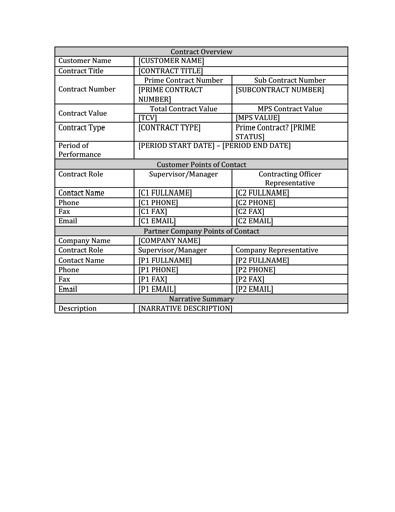
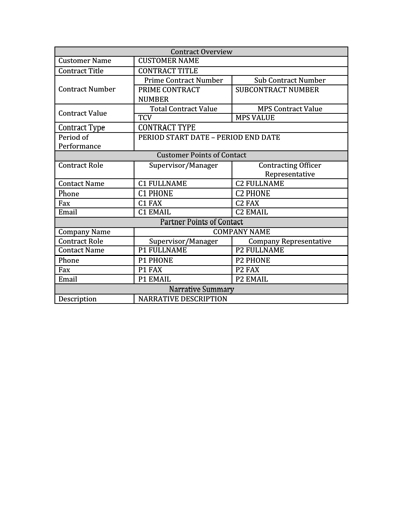
Add rubyzip gem
*Add RubyZip, create Zip model
*Modify document template and render markdown

Changed region(s): [[0.1215, 0.2188, 0.881, 0.625], [0.3342, 0.0938, 0.5165, 0.1875], [0.5772, 0.1562, 0.8203, 0.1875]]

diff --git a/app/models/word_document_generator.rb b/app/models/word_document_generator.rb
@@ -5,35 +5,35 @@ class WordDocumentGenerator
   end
 
   def generate
-    @file_template.sub!("[CUSTOMER NAME]", @performance.customer.name)
-    @file_template.sub!("[CONTRACT TITLE]", @performance.title)
-    @file_template.sub!("[PRIME CONTRACT NUMBER]", @performance.contract_number)
-    @file_template.sub!("[SUB CONTRACT NUMBER]", @performance.contract_number)
-    @file_template.sub!("[MPS VALUE]", @performance.value.to_s)
-    @file_template.sub!("[CONTRACT TYPE]", @performance.contract_type)
-    @file_template.sub!("[PERIOD START DATE]", @performance.period_start)
-    @file_template.sub!("[PERIOD END DATE]", @performance.period_end)
+    @file_template.sub!("CUSTOMER NAME", @performance.customer.name)
+    @file_template.sub!("CONTRACT TITLE", @performance.title)
+    @file_template.sub!("PRIME CONTRACT NUMBER", @performance.contract_number)
+    @file_template.sub!("SUB CONTRACT NUMBER", @performance.contract_number)
+    @file_template.sub!("MPS VALUE", @performance.value.to_s)
+    @file_template.sub!("CONTRACT TYPE", @performance.contract_type)
+    @file_template.sub!("PERIOD START DATE", @performance.period_start)
+    @file_template.sub!("PERIOD END DATE", @performance.period_end)
 
-    @file_template.sub!("[C1 FULLNAME]", @performance.contact_with_role("Supervisor").full_name)
-    @file_template.sub!("[C1 PHONE]", @performance.contact_with_role("Supervisor").phone)
-    @file_template.sub!("[C1 EMAIL]", @performance.contact_with_role("Supervisor").email)
-    @file_template.sub!("[C1 FAX]", @performance.contact_with_role("Supervisor").fax)
-    @file_template.sub!("[C2 FULLNAME]", @performance.contact_with_role("Contracting Officer Technical Representative").full_name)
-    @file_template.sub!("[C2 PHONE]", @performance.contact_with_role("Contracting Officer Technical Representative").phone)
-    @file_template.sub!("[C2 EMAIL]", @performance.contact_with_role("Contracting Officer Technical Representative").email)
-    @file_template.sub!("[C2 FAX]", @performance.contact_with_role("Contracting Officer Technical Representative").fax)
+    @file_template.sub!("C1 FULLNAME", @performance.contact_with_role("Supervisor").full_name)
+    @file_template.sub!("C1 PHONE", @performance.contact_with_role("Supervisor").phone)
+    @file_template.sub!("C1 EMAIL", @performance.contact_with_role("Supervisor").email)
+    @file_template.sub!("C1 FAX", @performance.contact_with_role("Supervisor").fax)
+    @file_template.sub!("C2 FULLNAME", @performance.contact_with_role("Contracting Officer Technical Representative").full_name)
+    @file_template.sub!("C2 PHONE", @performance.contact_with_role("Contracting Officer Technical Representative").phone)
+    @file_template.sub!("C2 EMAIL", @performance.contact_with_role("Contracting Officer Technical Representative").email)
+    @file_template.sub!("C2 FAX", @performance.contact_with_role("Contracting Officer Technical Representative").fax)
 
-    @file_template.sub!("[COMPANY NAME]", @performance.partner.name)
-    @file_template.sub!("[P1 FULLNAME]", @performance.contact_with_role("Company Representative").full_name)
-    @file_template.sub!("[P1 PHONE]", @performance.contact_with_role("Company Representative").phone)
-    @file_template.sub!("[P1 EMAIL]", @performance.contact_with_role("Company Representative").email)
-    @file_template.sub!("[P1 FAX]", @performance.contact_with_role("Company Representative").fax)
-    @file_template.sub!("[P2 FULLNAME]", @performance.contact_with_role("Other").full_name)
-    @file_template.sub!("[P2 PHONE]", @performance.contact_with_role("Other").phone)
-    @file_template.sub!("[P2 EMAIL]", @performance.contact_with_role("Other").email)
-    @file_template.sub!("[P2 FAX]", @performance.contact_with_role("Other").fax)
+    @file_template.sub!("COMPANY NAME", @performance.partner.name)
+    @file_template.sub!("P1 FULLNAME", @performance.contact_with_role("Company Representative").full_name)
+    @file_template.sub!("P1 PHONE", @performance.contact_with_role("Company Representative").phone)
+    @file_template.sub!("P1 EMAIL", @performance.contact_with_role("Company Representative").email)
+    @file_template.sub!("P1 FAX", @performance.contact_with_role("Company Representative").fax)
+    @file_template.sub!("P2 FULLNAME", @performance.contact_with_role("Other").full_name)
+    @file_template.sub!("P2 PHONE", @performance.contact_with_role("Other").phone)
+    @file_template.sub!("P2 EMAIL", @performance.contact_with_role("Other").email)
+    @file_template.sub!("P2 FAX", @performance.contact_with_role("Other").fax)
 
-    @file_template.sub!("[NARRATIVE DESCRIPTION]", @performance.description)
+    @file_template.sub!("NARRATIVE DESCRIPTION", (@performance.description.gsub("\n", "<w:br/>")))
 
     @file_template
   end

diff --git a/app/models/word_document_writer.rb b/app/models/word_document_writer.rb
@@ -1,15 +1,41 @@
 class WordDocumentWriter
-  def initialize(word_document_generator)
-    @word_document_generator = word_document_generator
+  def initialize(content)
+    @content = content
   end
 
   def write
-    File.open(path_to_written_output, "w") {|file| file.write(@word_document_generator)}
+    create_output_directory
+    File.open(path_to_generated_xml_document, "w") {|file| file.write(@content)}
+  end
+
+  def zip
+    zipfile_name = Rails.root.join("tmp/performance.docx")
+
+    Zip::File.open(zipfile_name, Zip::File::CREATE) do |zipfile|
+      Dir.glob(Rails.root.join("lib/assets/word_document/**/*")).each do |full_path|
+        if full_path.ends_with?("document.xml")
+          filename = "word/document.xml"
+          full_path = path_to_generated_xml_document
+        else
+          filename = full_path.sub(Rails.root.join("lib/assets/word_document/").to_s, "")
+        end
+
+        zipfile.add(filename, full_path)
+      end
+
+      path = Rails.root.join("lib/assets/word_document/_rels/.rels")
+      path_inside_zipfile = path.sub(Rails.root.join("lib/assets/word_document/").to_s, "")
+      zipfile.add(path_inside_zipfile, path)
+    end
   end
 
   private
 
-  def path_to_written_output
-    Rails.root.join("tmp", "sessions", "word_document", "document.xml")
+  def path_to_generated_xml_document
+    Rails.root.join("tmp", "word_document", "document.xml")
+  end
+
+  def create_output_directory
+    FileUtils.mkdir_p(File.dirname(path_to_generated_xml_document))
   end
 end

diff --git a/app/models/performance_contact.rb b/app/models/performance_contact.rb
@@ -1,11 +1,12 @@
 class PerformanceContact < ActiveRecord::Base
-  CUSTOMER_ROLE = ["Supervisor", "Contracting Officer Technical Representative", "Other"]
+  CUSTOMER_ROLE = ["Contracting Officer Technical Representative", "Supervisor", "Other"]
   PARTNER_ROLE = ["Company Representative", "Other"]
   ALL_ROLES = CUSTOMER_ROLE + PARTNER_ROLE
 
   belongs_to :contact
   belongs_to :performance
   belongs_to :user
+  belongs_to :updated_by, class_name: "User"
 
   validates :contact_id, presence: true
   validates :role, presence: true, 
@@ -13,4 +14,5 @@ class PerformanceContact < ActiveRecord::Base
 
   validates :performance, presence: true
   validates :user, presence: true
+  validates :updated_by, presence: true
 end

diff --git a/app/controllers/downloads_controller.rb b/app/controllers/downloads_controller.rb
@@ -1,0 +1,15 @@
+class DownloadsController < ApplicationController
+  def create
+    template_reader = TemplateReader.new
+    file_template = template_reader.read
+    performance = Performance.find(params[:performance_id])
+
+    word_document_generator = WordDocumentGenerator.new(file_template, performance)
+    content = word_document_generator.generate
+    word_document_writer = WordDocumentWriter.new(content)
+    word_document_writer.write
+    word_document_writer.zip
+
+    redirect_to performance
+  end
+end

diff --git a/app/models/contact.rb b/app/models/contact.rb
@@ -1,10 +1,12 @@
 class Contact < ActiveRecord::Base
-  belongs_to :organization, polymorphic: true
-  belongs_to :user
-
   has_many :performance_contacts, dependent: :destroy
   has_many :performances, through: :performance_contacts
 
+  belongs_to :organization, polymorphic: true
+  belongs_to :user
+  belongs_to :updated_by, class_name: "User"
+
+  validates :updated_by, presence: true
   validates :user, presence: true
   validates :first_name, presence: true
   validates :last_name, presence: true

diff --git a/app/models/template_reader.rb b/app/models/template_reader.rb
@@ -9,13 +9,3 @@ class TemplateReader
     Rails.root.join("lib", "assets", "word_document", "word", "document.xml")
   end
 end
-
-template_reader = TemplateReader.new
-file_template = template_reader.read
-performance = Performance.first
-
-word_document_generator = WordDocumentGenerator.new(file_template, performance)
-word_document_writer = WordDocumentWriter.new(word_document_generator)
-word_document_writer.write
-
-puts word_document_generator.generate

diff --git a/app/controllers/contacts_controller.rb b/app/controllers/contacts_controller.rb
@@ -6,7 +6,7 @@ class ContactsController < ApplicationController
 
   def create
     @organization = find_organization
-    @contact = current_user.contacts.new(contact_params.merge(organization: @organization))
+    @contact = current_user.contacts.new(contact_params.merge(organization: @organization, updated_by: current_user))
 
     if @contact.save
       redirect_to @organization

diff --git a/config/routes.rb b/config/routes.rb
@@ -17,6 +17,7 @@ Rails.application.routes.draw do
   resources :performances, only: [:show, :edit, :index] do
     resources :performance_contacts, only: [:new, :create]
     resources :opportunities, only: [:new, :create]
+    resource :download, only: [:create]
   end
 
   resources :partners, only: [:create, :index, :show] do

diff --git a/app/controllers/performance_contacts_controller.rb b/app/controllers/performance_contacts_controller.rb
@@ -11,7 +11,7 @@ class PerformanceContactsController < ApplicationController
     @performance_contact = current_user.performance_contacts.new(
       performance_contact_params.merge(
         performance_id: @performance.id,
-        updated_by_id: current_user.id
+        updated_by: current_user
       )
     )
 

diff --git a/app/models/solicitation.rb b/app/models/solicitation.rb
@@ -7,6 +7,7 @@ class Solicitation < ActiveRecord::Base
   belongs_to :partner
   belongs_to :updated_by, class_name: "User"
 
+  validates :updated_by, presence: true
   validates :title, presence: true
   validates :description, presence: true
   validates :office, presence: true

diff --git a/config/initializers/rubyzip.rb b/config/initializers/rubyzip.rb
@@ -1,0 +1,3 @@
+# Be sure to restart your server when you modify this file.
+
+Zip.continue_on_exists_proc = true
